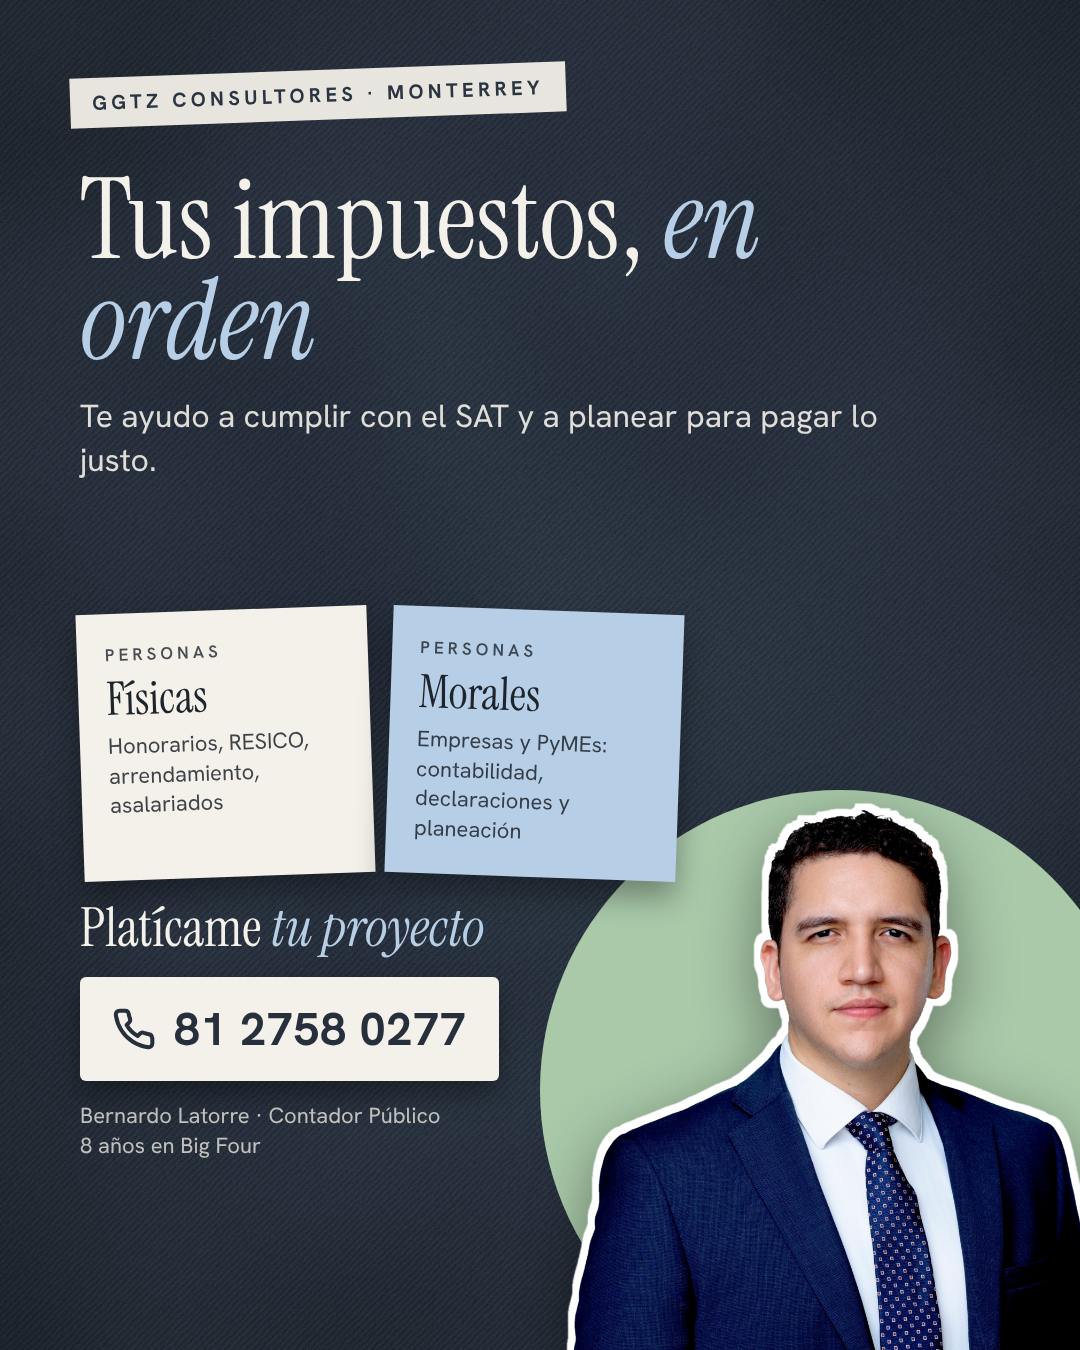
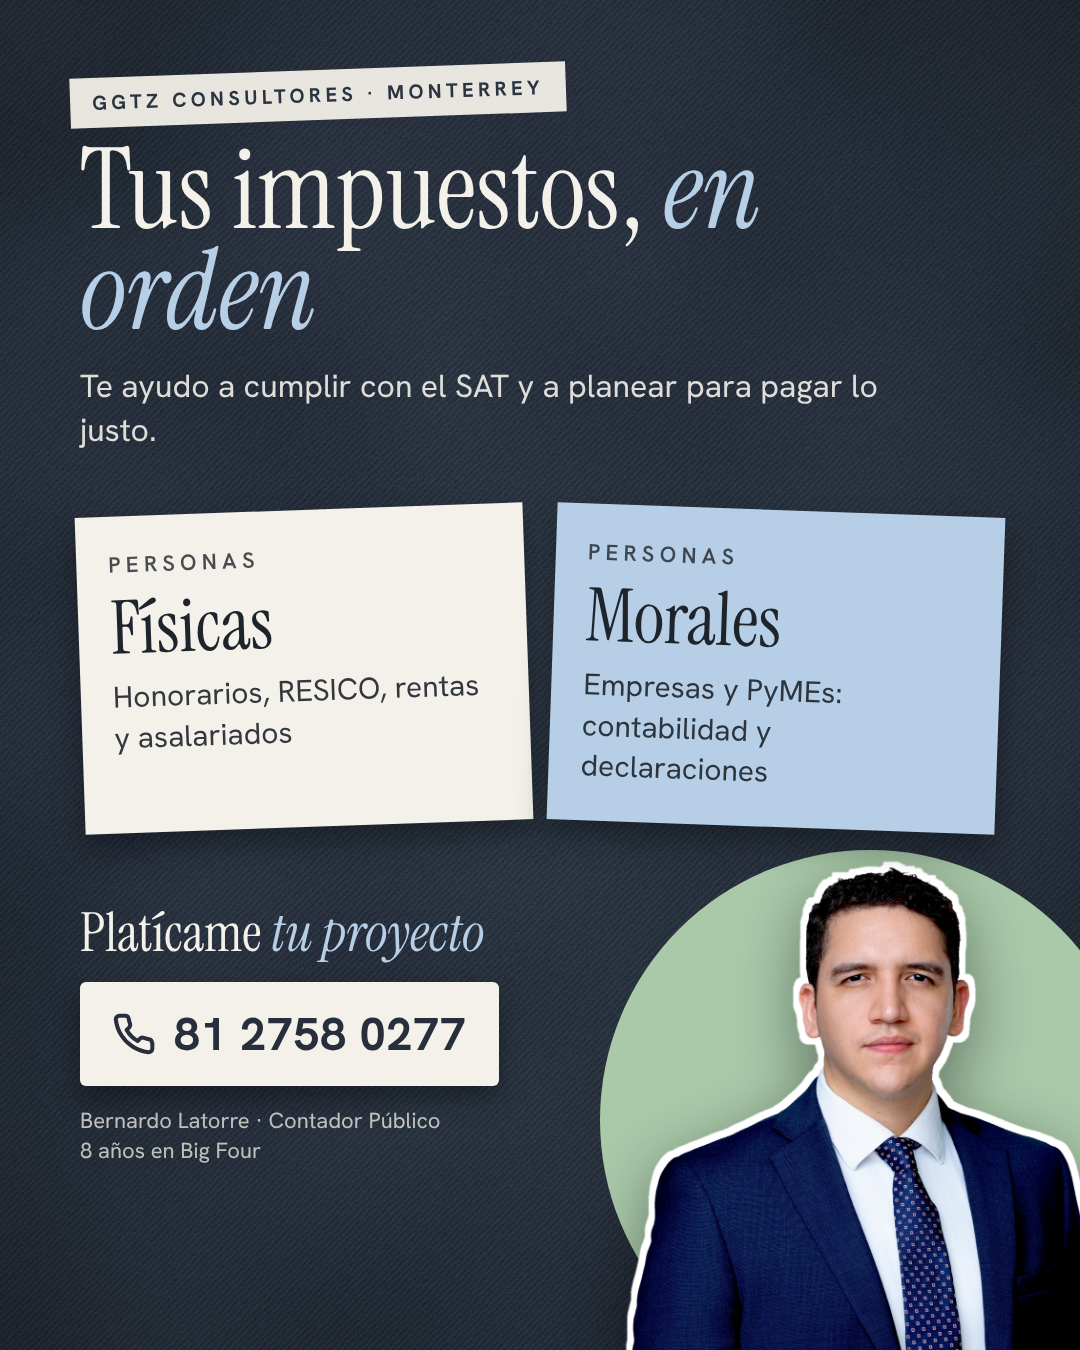
Anuncio: tarjetas PF/PM más grandes
Claude-Session: https://claude.ai/code/session_01J2dboEZNzBYhxcXmwSfC74

diff --git a/recursos/plantillas/Ad-01-Feed.dc.html b/recursos/plantillas/Ad-01-Feed.dc.html
@@ -23,17 +23,17 @@ a{color:inherit}
 </helmet>
 <div class="bg-sarga" style="width: 1080px; height: 1350px; position: relative; overflow: hidden; font-family: 'Hanken Grotesk', sans-serif; color: #F4F1EA;">
 
-<div aria-hidden="true" style="position: absolute; right: -60px; bottom: -40px; width: 600px; height: 600px; border-radius: 50%; background: #A9C9A9"></div>
-<img src="/_blob/25bcb8fe94907e94b0640cf81bd101a6" alt="Bernardo Latorre, Contador Público" style="position: absolute; right: -40px; bottom: 0; width: 560px; height: auto; filter: drop-shadow(0 18px 30px rgba(0,0,0,0.4))">
+<div aria-hidden="true" style="position: absolute; right: -60px; bottom: -40px; width: 540px; height: 540px; border-radius: 50%; background: #A9C9A9"></div>
+<img src="/_blob/25bcb8fe94907e94b0640cf81bd101a6" alt="Bernardo Latorre, Contador Público" style="position: absolute; right: -40px; bottom: 0; width: 500px; height: auto; filter: drop-shadow(0 18px 30px rgba(0,0,0,0.4))">
 <div style="position: absolute; left: 70px; top: 70px; padding: 12px 22px; background: rgba(244,241,234,0.94); color: #2B3542; font-size: 20px; font-weight: 700; letter-spacing: 0.22em; transform: rotate(-2deg)">GGTZ CONSULTORES · MONTERREY</div>
-<div style="position: absolute; left: 80px; right: 80px; top: 170px; display: flex; flex-direction: column; gap: 22px">
+<div style="position: absolute; left: 80px; right: 80px; top: 140px; display: flex; flex-direction: column; gap: 22px">
 <h1 class="serif" style="margin: 0; font-size: 112px; line-height: 0.9">Tus impuestos, <em style="font-style: italic; color: #B7CFE6">en orden</em></h1>
 <p style="margin: 0; max-width: 820px; font-size: 32px; line-height: 1.4; color: rgba(244,241,234,0.9)">Te ayudo a cumplir con el SAT y a planear para pagar lo justo.</p>
 </div>
-<div style="position: absolute; left: 80px; width: 600px; top: 610px; display: flex; gap: 18px">
-<div style="flex: 1 1 0; display: flex; flex-direction: column; gap: 10px; padding: 30px 28px; background: #F4F1EA; color: #1E242C; transform: rotate(-2deg); box-shadow: 0 16px 30px rgba(0,0,0,0.35)"><div class="kicker" style="font-size: 17px; opacity: 0.8">PERSONAS</div><div class="serif" style="font-size: 46px; line-height: 1">Físicas</div><div style="font-size: 22px; line-height: 1.35; opacity: 0.85">Honorarios, RESICO, arrendamiento, asalariados</div></div><div style="flex: 1 1 0; display: flex; flex-direction: column; gap: 10px; padding: 30px 28px; background: #B7CFE6; color: #1E242C; transform: rotate(2deg); box-shadow: 0 16px 30px rgba(0,0,0,0.35)"><div class="kicker" style="font-size: 17px; opacity: 0.8">PERSONAS</div><div class="serif" style="font-size: 46px; line-height: 1">Morales</div><div style="font-size: 22px; line-height: 1.35; opacity: 0.85">Empresas y PyMEs: contabilidad, declaraciones y planeación</div></div>
+<div style="position: absolute; left: 80px; right: 80px; top: 510px; display: flex; gap: 24px">
+<div style="flex: 1 1 0; display: flex; flex-direction: column; gap: 12px; padding: 34px 32px; background: #F4F1EA; color: #1E242C; transform: rotate(-2deg); box-shadow: 0 16px 30px rgba(0,0,0,0.35)"><div class="kicker" style="font-size: 22px; opacity: 0.8">PERSONAS</div><div class="serif" style="font-size: 74px; line-height: 1">Físicas</div><div style="font-size: 30px; line-height: 1.35; opacity: 0.9">Honorarios, RESICO, rentas y asalariados</div></div><div style="flex: 1 1 0; display: flex; flex-direction: column; gap: 12px; padding: 34px 32px; background: #B7CFE6; color: #1E242C; transform: rotate(2deg); box-shadow: 0 16px 30px rgba(0,0,0,0.35)"><div class="kicker" style="font-size: 22px; opacity: 0.8">PERSONAS</div><div class="serif" style="font-size: 74px; line-height: 1">Morales</div><div style="font-size: 30px; line-height: 1.35; opacity: 0.9">Empresas y PyMEs: contabilidad y declaraciones</div></div>
 </div>
-<div style="position: absolute; left: 80px; top: 900px; width: 470px; display: flex; flex-direction: column; gap: 20px">
+<div style="position: absolute; left: 80px; top: 905px; width: 470px; display: flex; flex-direction: column; gap: 20px">
 <div class="serif" style="font-size: 54px; line-height: 1.05">Platícame <em style="font-style: italic; color: #B7CFE6">tu proyecto</em></div>
 <div style="display: inline-flex; align-self: flex-start; align-items: center; gap: 18px; padding: 22px 32px; background: #F4F1EA; color: #262F3B; border-radius: 6px; box-shadow: 0 14px 26px rgba(0,0,0,0.35)"><svg aria-hidden="true" width="44" height="44" viewBox="0 0 24 24" fill="none" stroke="#262F3B" stroke-width="2.2" stroke-linecap="round" stroke-linejoin="round"><path d="M22 16.9v3a2 2 0 0 1-2.2 2 19.8 19.8 0 0 1-8.6-3.1 19.5 19.5 0 0 1-6-6A19.8 19.8 0 0 1 2.1 4.2 2 2 0 0 1 4.1 2h3a2 2 0 0 1 2 1.7c.1.9.4 1.8.7 2.7a2 2 0 0 1-.5 2.1L8 9.8a16 16 0 0 0 6 6l1.3-1.3a2 2 0 0 1 2.1-.4c.9.3 1.8.6 2.7.7a2 2 0 0 1 1.7 2z"></path></svg><span style="font-size: 46px; font-weight: 700; letter-spacing: 0.02em">81 2758 0277</span></div>
 <div style="font-size: 22px; line-height: 1.4; color: rgba(244,241,234,0.75)">Bernardo Latorre · Contador Público<br>8 años en Big Four</div>

diff --git a/recursos/plantillas/Ad-02-Story.dc.html b/recursos/plantillas/Ad-02-Story.dc.html
@@ -30,8 +30,8 @@ a{color:inherit}
 <h1 class="serif" style="margin: 0; font-size: 128px; line-height: 0.9">Tus impuestos, <em style="font-style: italic; color: #B7CFE6">en orden</em></h1>
 <p style="margin: 0; max-width: 820px; font-size: 36px; line-height: 1.4; color: rgba(244,241,234,0.9)">Te ayudo a cumplir con el SAT y a planear para pagar lo justo.</p>
 </div>
-<div style="position: absolute; left: 80px; width: 600px; top: 800px; display: flex; gap: 18px">
-<div style="flex: 1 1 0; display: flex; flex-direction: column; gap: 10px; padding: 30px 28px; background: #F4F1EA; color: #1E242C; transform: rotate(-2deg); box-shadow: 0 16px 30px rgba(0,0,0,0.35)"><div class="kicker" style="font-size: 17px; opacity: 0.8">PERSONAS</div><div class="serif" style="font-size: 46px; line-height: 1">Físicas</div><div style="font-size: 22px; line-height: 1.35; opacity: 0.85">Honorarios, RESICO, arrendamiento, asalariados</div></div><div style="flex: 1 1 0; display: flex; flex-direction: column; gap: 10px; padding: 30px 28px; background: #B7CFE6; color: #1E242C; transform: rotate(2deg); box-shadow: 0 16px 30px rgba(0,0,0,0.35)"><div class="kicker" style="font-size: 17px; opacity: 0.8">PERSONAS</div><div class="serif" style="font-size: 46px; line-height: 1">Morales</div><div style="font-size: 22px; line-height: 1.35; opacity: 0.85">Empresas y PyMEs: contabilidad, declaraciones y planeación</div></div>
+<div style="position: absolute; left: 80px; right: 80px; top: 800px; display: flex; gap: 24px">
+<div style="flex: 1 1 0; display: flex; flex-direction: column; gap: 12px; padding: 34px 32px; background: #F4F1EA; color: #1E242C; transform: rotate(-2deg); box-shadow: 0 16px 30px rgba(0,0,0,0.35)"><div class="kicker" style="font-size: 22px; opacity: 0.8">PERSONAS</div><div class="serif" style="font-size: 74px; line-height: 1">Físicas</div><div style="font-size: 30px; line-height: 1.35; opacity: 0.9">Honorarios, RESICO, rentas y asalariados</div></div><div style="flex: 1 1 0; display: flex; flex-direction: column; gap: 12px; padding: 34px 32px; background: #B7CFE6; color: #1E242C; transform: rotate(2deg); box-shadow: 0 16px 30px rgba(0,0,0,0.35)"><div class="kicker" style="font-size: 22px; opacity: 0.8">PERSONAS</div><div class="serif" style="font-size: 74px; line-height: 1">Morales</div><div style="font-size: 30px; line-height: 1.35; opacity: 0.9">Empresas y PyMEs: contabilidad y declaraciones</div></div>
 </div>
 <div style="position: absolute; left: 80px; top: 1170px; width: 470px; display: flex; flex-direction: column; gap: 20px">
 <div class="serif" style="font-size: 62px; line-height: 1.05">Platícame <em style="font-style: italic; color: #B7CFE6">tu proyecto</em></div>

diff --git a/recursos/plantillas/_gen_anuncio.py b/recursos/plantillas/_gen_anuncio.py
@@ -10,8 +10,8 @@ page, B = base.page, base.B
 PHONE_ICON = '<svg aria-hidden="true" width="44" height="44" viewBox="0 0 24 24" fill="none" stroke="#262F3B" stroke-width="2.2" stroke-linecap="round" stroke-linejoin="round"><path d="M22 16.9v3a2 2 0 0 1-2.2 2 19.8 19.8 0 0 1-8.6-3.1 19.5 19.5 0 0 1-6-6A19.8 19.8 0 0 1 2.1 4.2 2 2 0 0 1 4.1 2h3a2 2 0 0 1 2 1.7c.1.9.4 1.8.7 2.7a2 2 0 0 1-.5 2.1L8 9.8a16 16 0 0 0 6 6l1.3-1.3a2 2 0 0 1 2.1-.4c.9.3 1.8.6 2.7.7a2 2 0 0 1 1.7 2z"></path></svg>'
 
 def card(k, t, d, bg, fg, rot):
-    return (f'<div style="flex: 1 1 0; display: flex; flex-direction: column; gap: 10px; padding: 30px 28px; background: {bg}; color: {fg}; transform: rotate({rot}deg); box-shadow: 0 16px 30px rgba(0,0,0,0.35)">'
-            f'<div class="kicker" style="font-size: 17px; opacity: 0.8">{k}</div><div class="serif" style="font-size: 46px; line-height: 1">{t}</div><div style="font-size: 22px; line-height: 1.35; opacity: 0.85">{d}</div></div>')
+    return (f'<div style="flex: 1 1 0; display: flex; flex-direction: column; gap: 12px; padding: 34px 32px; background: {bg}; color: {fg}; transform: rotate({rot}deg); box-shadow: 0 16px 30px rgba(0,0,0,0.35)">'
+            f'<div class="kicker" style="font-size: 22px; opacity: 0.8">{k}</div><div class="serif" style="font-size: 74px; line-height: 1">{t}</div><div style="font-size: 30px; line-height: 1.35; opacity: 0.9">{d}</div></div>')
 
 def body(h, top_title, cards_top, cta_top, photo_w, k=1.0):
     return f"""
@@ -22,8 +22,8 @@ def body(h, top_title, cards_top, cta_top, photo_w, k=1.0):
 <h1 class="serif" style="margin: 0; font-size: {int(112*k)}px; line-height: 0.9">Tus impuestos, <em style="font-style: italic; color: #B7CFE6">en orden</em></h1>
 <p style="margin: 0; max-width: 820px; font-size: {int(32*k)}px; line-height: 1.4; color: rgba(244,241,234,0.9)">Te ayudo a cumplir con el SAT y a planear para pagar lo justo.</p>
 </div>
-<div style="position: absolute; left: 80px; width: 600px; top: {cards_top}px; display: flex; gap: 18px">
-{card('PERSONAS', 'Físicas', 'Honorarios, RESICO, arrendamiento, asalariados', '#F4F1EA', '#1E242C', -2)}{card('PERSONAS', 'Morales', 'Empresas y PyMEs: contabilidad, declaraciones y planeación', '#B7CFE6', '#1E242C', 2)}
+<div style="position: absolute; left: 80px; right: 80px; top: {cards_top}px; display: flex; gap: 24px">
+{card('PERSONAS', 'Físicas', 'Honorarios, RESICO, rentas y asalariados', '#F4F1EA', '#1E242C', -2)}{card('PERSONAS', 'Morales', 'Empresas y PyMEs: contabilidad y declaraciones', '#B7CFE6', '#1E242C', 2)}
 </div>
 <div style="position: absolute; left: 80px; top: {cta_top}px; width: 470px; display: flex; flex-direction: column; gap: 20px">
 <div class="serif" style="font-size: {int(54*k)}px; line-height: 1.05">Platícame <em style="font-style: italic; color: #B7CFE6">tu proyecto</em></div>
@@ -32,7 +32,7 @@ def body(h, top_title, cards_top, cta_top, photo_w, k=1.0):
 </div>
 """
 
-feed = page("Anuncio · Feed", "bg-sarga", "#F4F1EA", body(1350, 170, 610, 900, 560))
+feed = page("Anuncio · Feed", "bg-sarga", "#F4F1EA", body(1350, 140, 510, 905, 500))
 story = page("Anuncio · Story", "bg-sarga", "#F4F1EA", body(1920, 300, 800, 1170, 700, 1.15))
 story = story.replace("height: 1350px", "height: 1920px").replace('"height":1350', '"height":1920')
 (HERE / "Ad-01-Feed.dc.html").write_text(feed)
